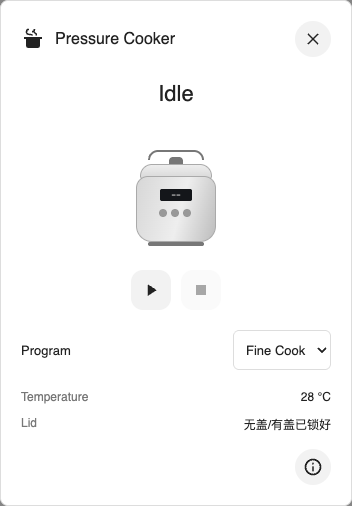
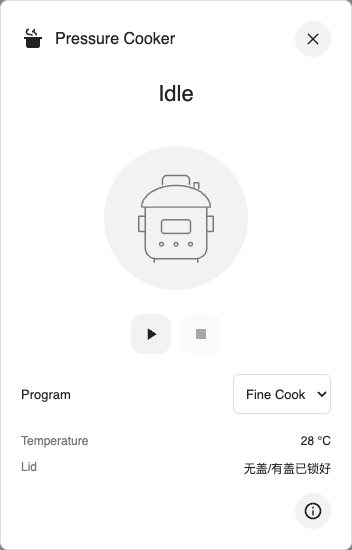
Use native-style appliance outlines and selectable dishwasher designs

diff --git a/src/cards/cooking-art.js b/src/cards/cooking-art.js
@@ -1,39 +1,16 @@
-// SPDX-License-Identifier: MIT
-// Appliance silhouettes adapted from ADNPolymerase/ha-appliance-card v2.30.0.
-// Copyright (c) 2026 ADNPolymerase. See NOTICE.md.
+// Original theme-aware outline drawings shared by appliance tiles and dialogs.
 export const cookingArtCss = `
-.machine{position:relative;width:96px;height:108px;margin:12px auto 20px;--ac-body:#d7d7d7;--ac-body-hi:#eeeeee;--ac-body-lo:#bdbdbd}
-.af-body{position:absolute;border-radius:16px 16px 7px 7px;background:linear-gradient(90deg,var(--ac-body-lo),var(--ac-body-hi) 30%,var(--ac-body) 70%,var(--ac-body-lo));box-shadow:inset 0 0 0 1px #0003;left:21px;right:21px;top:20px;bottom:9px}
-.af-vent{position:absolute;height:4px;border-radius:2px;background:repeating-linear-gradient(90deg,#0007 0 1.2px,transparent 1.2px 3px);left:34px;right:34px;top:24px}
-.af-seam{position:absolute;height:1.5px;background:#0005;left:21px;right:21px;top:52px}
-.af-drawer{position:absolute;border-radius:3px 3px 8px 8px;background:linear-gradient(90deg,var(--ac-body-lo),var(--ac-body) 35%,var(--ac-body-hi) 60%,var(--ac-body-lo));box-shadow:inset 0 0 0 1px #0003;left:21px;right:21px;top:53px;bottom:9px}
-.af-handle{position:absolute;border-radius:3px;background:linear-gradient(180deg,#5f666e,#2b3036);box-shadow:0 1px 1px #0005;left:15px;width:24px;top:13px;height:13px}
-.af-btn{position:absolute;width:5px;height:2px;border-radius:1px;background:#90a4ae;left:9.5px;top:1.5px}
-.af-foot{position:absolute;bottom:5px;width:9px;height:3px;border-radius:0 0 3px 3px;background:#555}.af-foot.f1{left:25px}.af-foot.f2{right:25px}
-.af-led{position:absolute;width:3px;height:3px;border-radius:50%;background:#777;left:46.5px;top:43px}
-.machine.heating .af-led,.machine.heating .af-seam{background:var(--state-active-color,#ff9800)}
-.rk-body{position:absolute;left:8px;right:8px;top:34px;bottom:8px;border-radius:12px 12px 16px 16px;background:linear-gradient(105deg,var(--ac-body),var(--ac-body-hi) 55%,var(--ac-body-lo));border:1px solid #aaa}
-.rk-lid{position:absolute;left:12px;right:12px;top:22px;height:16px;border-radius:12px 12px 4px 4px;background:linear-gradient(180deg,var(--ac-body-hi),var(--ac-body));border:1px solid #aaa}
-.rk-vent{position:absolute;left:50%;top:15px;width:14px;height:9px;margin-left:-7px;border-radius:4px 4px 2px 2px;background:#777}
-.rk-handle{position:absolute;left:20px;right:20px;top:8px;height:10px;border:2.5px solid #777;border-bottom:none;border-radius:10px 10px 0 0}
-.rk-disp{position:absolute;left:50%;top:12px;transform:translateX(-50%);min-width:32px;height:12px;padding:0 3px;border-radius:2px;background:#14161a;color:#aaa;text-align:center;font:600 8px/12px monospace}
-.rk-key{position:absolute;top:32px;width:8px;height:8px;border-radius:50%;background:#999}.rk-key.k1{left:22px}.rk-key.k2{left:34px}.rk-key.k3{left:46px}
-.rk-foot{position:absolute;left:20px;right:20px;bottom:4px;height:4px;border-radius:2px;background:#777}.machine.heating .rk-foot,.machine.heating .rk-disp{color:var(--state-active-color,#ff9800)}
-.dw-body{position:absolute;inset:0;border-radius:10px 10px 6px 6px;background:linear-gradient(145deg,var(--ac-body,#d7d7d7),var(--ac-body-lo,#aeb2b5));border:1px solid var(--divider-color,#c7c7c7);perspective:260px}
-.dw-controls{position:absolute;top:6px;left:8px;right:8px;height:12px;border:1px solid #fff2;border-radius:3px;background:#141617c7}
-.dw-controls::before,.dw-controls::after{content:"";position:absolute;top:3px;width:4px;height:4px;border-radius:50%;background:#697078}.dw-controls::before{right:5px}.dw-controls::after{right:12px}
-.dw-screen{position:absolute;top:2px;left:4px;width:24px;height:6px;border-radius:2px;background:#16292e;box-shadow:inset 0 0 0 1px #81d5cd4d}
-.dw-cavity{position:absolute;top:22px;right:8px;bottom:8px;left:8px;overflow:hidden;border:3px solid #34383b;border-radius:4px;background:linear-gradient(180deg,#33474f,#7d8f95);box-shadow:inset 0 0 10px #0005}
-.dw-rack{position:absolute;right:10%;bottom:13%;left:10%;height:34%;border-top:1px solid #dee8ebc2;border-bottom:1px solid #dee8eb80;background:repeating-linear-gradient(90deg,transparent 0 7px,#dee8eb94 8px 9px);transform:perspective(100px) rotateX(18deg)}
-.dw-door{position:absolute;top:22px;right:8px;bottom:8px;left:8px;z-index:5;border:3px solid #34383b;border-radius:4px;background:linear-gradient(180deg,#0e141880,#0e1418bd);box-shadow:inset 0 0 0 1px #e1ebec4d,0 3px 5px #0004;transform-origin:50% 100%}
-.dw-door::after{content:"";position:absolute;inset:0;border-radius:2px;background:linear-gradient(116deg,#ffffff2b 0 17%,transparent 40%)}
-.dw-door::before{content:"";position:absolute;top:4px;right:18%;left:18%;height:2px;border-radius:8px;background:#e1e7e899}
-.dw-spray{position:absolute;top:21%;left:10%;width:80%;height:5px;border-radius:8px;background:var(--primary-color,#03a9f4);opacity:0;transform-origin:50% 50%}
-.machine.spinning .dw-spray{opacity:1;animation:dw-spray-spin 2.8s linear infinite}.machine.spinning .dw-door{background:linear-gradient(180deg,#121a1e14,#121a1e4d)}
-@keyframes dw-spray-spin{to{transform:rotate(360deg)}}@media(prefers-reduced-motion:reduce){.machine.spinning .dw-spray{animation:none}}
+.machine{display:grid;place-items:center;width:144px;height:144px;margin:16px auto 24px;border-radius:50%;background:var(--secondary-background-color,#f5f5f5);color:var(--secondary-text-color,#888)}
+.machine svg{width:116px;height:116px}.appliance-drawing{display:block;fill:none;stroke:currentColor;stroke-width:1.6;stroke-linecap:round;stroke-linejoin:round}
+.appliance-icon{display:inline-flex;flex-shrink:0;width:28px;height:28px;color:var(--state-inactive-color,#999)}.appliance-icon svg{width:100%;height:100%;stroke-width:4.2}
+header .appliance-icon{width:24px;height:24px;color:var(--primary-text-color,#444)}.entry.active>.appliance-icon{color:var(--state-active-color,#ff9800)}
 `;
-export const cookingArt = kind => kind === "dishwasher"
-  ? '<div class="machine"><div class="dw-body"><div class="dw-controls"><div class="dw-screen"></div></div><div class="dw-cavity"><div class="dw-rack"></div><div class="dw-spray"></div></div><div class="dw-door" aria-hidden="true"></div></div></div>'
-  : kind === "air-fryer"
-  ? '<div class="machine"><div class="af-body"></div><div class="af-vent"></div><div class="af-led"></div><div class="af-seam"></div><div class="af-drawer"><div class="af-handle"><div class="af-btn"></div></div></div><div class="af-foot f1"></div><div class="af-foot f2"></div></div>'
-  : '<div class="machine"><div class="rk-handle"></div><div class="rk-vent"></div><div class="rk-lid"></div><div class="rk-body"><div class="rk-disp">--</div><div class="rk-key k1"></div><div class="rk-key k2"></div><div class="rk-key k3"></div></div><div class="rk-foot"></div></div>';
+const cabinet = '<rect x="30" y="18" width="68" height="94" rx="5"/><path d="M30 38h68M44 47h40M36 104h56"/><rect x="40" y="25" width="18" height="6" rx="1.5"/><circle cx="86" cy="28" r="1.5"/><path d="M42 68v25h44V68M42 85h44M50 68v17m9-17v17m10-17v17m9-17v17"/>';
+const sink = '<path d="M15 54h98M21 54v51h86V54M25 105v6m78-6v6M64 63v34M28 93h29M71 93h29"/><path d="M35 52V32a10 10 0 0 1 20 0v5m-4 0h8M30 44h10"/><rect x="28" y="61" width="29" height="27" rx="5"/><path d="M34 69v11m8-11v11m8-11v11M72 62h27v26H72zM77 68h17m-17 7h17m-17 7h17"/>';
+const fryer = '<path d="M40 24h48a10 10 0 0 1 10 10v65a10 10 0 0 1-10 10H40a10 10 0 0 1-10-10V34a10 10 0 0 1 10-10ZM30 64h68M37 109v4m54-4v4"/><rect x="49" y="36" width="30" height="13" rx="3"/><circle cx="42" cy="42" r="2"/><circle cx="86" cy="42" r="2"/><rect x="55" y="72" width="18" height="23" rx="4"/><path d="M43 29h42"/>';
+const cooker = '<path d="M30 52h68v45a12 12 0 0 1-12 12H42a12 12 0 0 1-12-12ZM26 52a38 24 0 0 1 76 0H26ZM29 62h-6v17h7m68-17h7v17h-7M40 109v4m48-4v4"/><path d="M49 27v-5a5 5 0 0 1 5-5h20a5 5 0 0 1 5 5v5M84 30v-5h5v7"/><rect x="48" y="66" width="32" height="15" rx="3"/><circle cx="48" cy="93" r="2"/><circle cx="64" cy="93" r="2"/><circle cx="80" cy="93" r="2"/>';
+export function applianceSvg(kind, variant = "cabinet") {
+  const paths = kind === "dishwasher" ? (variant === "sink" ? sink : cabinet) : kind === "air-fryer" ? fryer : cooker;
+  return `<svg class="appliance-drawing" viewBox="0 0 128 128" aria-hidden="true">${paths}</svg>`;
+}
+export const cookingArt = (kind, variant) => `<div class="machine" aria-hidden="true">${applianceSvg(kind, variant)}</div>`;

diff --git a/src/cards/cooking-card.js b/src/cards/cooking-card.js
@@ -1,4 +1,4 @@
-import { cookingArt, cookingArtCss } from "./cooking-art.js";
+import { cookingArt, cookingArtCss, applianceSvg } from "./cooking-art.js";
 
 const valid = value => value !== undefined && !["unknown", "unavailable", ""].includes(value);
 const normalize = value => String(value || "").trim().toLowerCase();
@@ -45,13 +45,14 @@ export class CookingCard extends HTMLElement {
   disconnectedCallback() { this.cancel(); this.shadowRoot?.querySelector("dialog")?.close(); }
   render() {
     const icon = this.config.kind === "dishwasher" ? "dishwasher" : this.config.kind === "air-fryer" ? "stove" : "pot-steam";
+    const entryIcon = this.config.kind === "dishwasher" ? `<span class="appliance-icon">${applianceSvg("dishwasher", this.config.icon_variant)}</span>` : `<ha-icon icon="mdi:${icon}"></ha-icon>`;
     this.shadowRoot.innerHTML = `<style>
       :host{display:block;font-family:var(--paper-font-body1_-_font-family,Roboto,sans-serif);color:var(--primary-text-color,#222)}*{box-sizing:border-box}[hidden]{display:none!important}button,input,select{font:inherit;color:inherit}button{cursor:pointer}button:disabled,input:disabled,select:disabled{opacity:.4;cursor:default}
       .entry{display:flex;align-items:center;gap:12px;width:100%;height:66px;padding:10px 12px;text-align:left;background:var(--ha-card-background,#fff);border:1px solid var(--divider-color,#ddd);border-radius:8px}.entry>ha-icon{--mdc-icon-size:28px;color:var(--state-inactive-color,#999)}.entry.active>ha-icon{color:var(--state-active-color,#ff9800)}.info{min-width:0;flex:1}.name{font-size:14px;font-weight:500;overflow-wrap:anywhere}.summary{font-size:12px;margin-top:3px;color:var(--secondary-text-color,#777);overflow-wrap:anywhere}
       dialog{width:min(420px,calc(100vw - 32px));max-height:85dvh;overflow:auto;padding:20px;border:1px solid var(--divider-color,#ddd);border-radius:8px;background:var(--ha-card-background,#fff);color:inherit}dialog::backdrop{background:#0007}header{display:flex;align-items:center;gap:10px}h2{flex:1;font-size:16px;font-weight:500;margin:0;overflow-wrap:anywhere}header ha-icon{--mdc-icon-size:24px}.control{display:grid;place-items:center;flex-shrink:0;width:40px;height:40px;border:0;border-radius:12px;background:var(--secondary-background-color,#f2f2f2)}.control ha-icon{--mdc-icon-size:20px}.close,.details{border-radius:50%;width:36px;height:36px}.status{text-align:center;font-size:22px;margin-top:24px}.remaining{text-align:center;font-size:12px;color:var(--secondary-text-color,#777);min-height:18px;margin-top:6px}.controls{display:flex;justify-content:center;gap:10px;margin-bottom:20px}.fields{display:grid;gap:12px}.field{display:flex;align-items:center;gap:8px;font-size:13px}.field>span{flex:1;min-width:0}input,select{height:40px;border:1px solid var(--divider-color,#ddd);border-radius:6px;background:var(--card-background-color,#fff);padding:0 8px;min-width:0;max-width:65%}input{width:84px}.facts{display:grid;gap:12px;margin-top:20px;font-size:12px}.fact{display:grid;grid-template-columns:minmax(0,1fr) minmax(0,1.5fr);gap:12px}.fact span:first-child{color:var(--secondary-text-color,#777)}.fact span:last-child{text-align:right;overflow-wrap:anywhere}.message{font-size:13px;color:var(--error-color,#db4437);overflow-wrap:anywhere;margin-top:16px}.message:empty{display:none}footer{display:flex;justify-content:flex-end;margin-top:16px}button:focus-visible,input:focus-visible,select:focus-visible{outline:2px solid var(--primary-color,#03a9f4);outline-offset:2px}
       ${cookingArtCss}
-    </style><button class="entry" aria-haspopup="dialog"><ha-icon icon="mdi:${icon}"></ha-icon><span class="info"><span class="name"></span><div class="summary"></div></span></button>
-    <dialog><header><ha-icon icon="mdi:${icon}"></ha-icon><h2></h2>${iconButton("close", "close", "Close")}</header><div class="status"></div><div class="remaining"></div>${cookingArt(this.config.kind)}<div class="controls">${iconButton("start", "play", "Start")}${iconButton("pause", "pause", "Pause")}${iconButton("resume", "play-pause", "Resume")}${iconButton("stop", "stop", "Stop")}</div><div class="fields"></div><div class="facts"></div><div class="message" role="alert"></div><footer>${iconButton("details", "information-outline", "Device Details")}</footer></dialog>`;
+    </style><button class="entry" aria-haspopup="dialog">${entryIcon}<span class="info"><span class="name"></span><div class="summary"></div></span></button>
+    <dialog><header>${entryIcon}<h2></h2>${iconButton("close", "close", "Close")}</header><div class="status"></div><div class="remaining"></div>${cookingArt(this.config.kind, this.config.icon_variant)}<div class="controls">${iconButton("start", "play", "Start")}${iconButton("pause", "pause", "Pause")}${iconButton("resume", "play-pause", "Resume")}${iconButton("stop", "stop", "Stop")}</div><div class="fields"></div><div class="facts"></div><div class="message" role="alert"></div><footer>${iconButton("details", "information-outline", "Device Details")}</footer></dialog>`;
     const root = this.shadowRoot, dialog = root.querySelector("dialog");
     root.querySelector(".name").textContent = root.querySelector("h2").textContent = this.config.name;
     dialog.setAttribute("aria-label", this.config.name);

diff --git a/src/cards/cooking-editor.js b/src/cards/cooking-editor.js
@@ -3,11 +3,18 @@ class CookingEditor extends HTMLElement {
   set hass(hass) { this._hass = hass; this.shadowRoot?.querySelectorAll("ha-selector").forEach(node => { node.hass = hass; }); }
   change(key, value) { this.config = { ...this.config, [key]: value || undefined }; this.dispatchEvent(new CustomEvent("config-changed", { detail: { config: this.config }, bubbles: true, composed: true })); }
   render() {
-    this.shadowRoot.innerHTML = '<style>:host{display:block}label,ha-selector{display:block;margin-bottom:16px}input,textarea{display:block;width:100%;box-sizing:border-box;padding:10px;font:inherit;color:var(--primary-text-color);background:var(--card-background-color);border:1px solid var(--divider-color);border-radius:4px}</style>';
+    this.shadowRoot.innerHTML = '<style>:host{display:block}label,ha-selector{display:block;margin-bottom:16px}input,textarea,select{display:block;width:100%;box-sizing:border-box;padding:10px;font:inherit;color:var(--primary-text-color);background:var(--card-background-color);border:1px solid var(--divider-color);border-radius:4px}</style>';
     const label = document.createElement("label"); label.textContent = "Name";
     const input = document.createElement("input"); input.value = this.config.name || ""; input.onchange = () => this.change("name", input.value); label.append(input); this.shadowRoot.append(label);
     const fryer = this.config.type === "custom:air-fryer-card";
     const dishwasher = this.config.type === "custom:dishwasher-card";
+    if (dishwasher) {
+      const label = document.createElement("label"); label.textContent = "Dishwasher Design";
+      const select = document.createElement("select"); select.setAttribute("aria-label", "Dishwasher Design");
+      for (const [value, title] of [["sink", "Sink"], ["cabinet", "Cabinet"]]) { const option = document.createElement("option"); option.value = value; option.textContent = title; select.append(option); }
+      select.value = this.config.icon_variant || "cabinet"; select.onchange = () => this.change("icon_variant", select.value);
+      label.append(select); this.shadowRoot.append(label);
+    }
     const fields = [["state_entity", "Status", "sensor"], ["start_entity", "Start", fryer ? "button" : "notify"], ["stop_entity", "Stop", "button"], ["remaining_entity", "Remaining Time", "sensor"], ["fault_entity", "Fault", "sensor"], ["finished_entity", "Last Finished", "event"]];
     if (dishwasher) { fields[1][2] = "button"; fields.push(["progress_entity", "Wash Stage", "sensor"], ["mode_entity", "Current Program", "sensor"], ["mode_select_entity", "Program And Start (Midea E1)", "select"]); }
     else if (fryer) fields.push(["pause_entity", "Pause", "button"], ["resume_entity", "Resume", "button"], ["target_temperature_entity", "Target Temperature", "number"], ["target_time_entity", "Duration", "number"], ["recipe_entity", "Recipe", "text"]);

diff --git a/src/cards/dishwasher-card.js b/src/cards/dishwasher-card.js
@@ -4,10 +4,11 @@ const label = value => String(value || "Unavailable").replaceAll("_", " ").repla
 
 class DishwasherCard extends CookingCard {
   setConfig(config) {
+    if (config.icon_variant && !["sink", "cabinet"].includes(config.icon_variant)) throw new Error("icon_variant must be sink or cabinet");
     for (const key of ["progress_entity", "mode_entity"]) if (config[key] && !/^sensor\./.test(config[key])) throw new Error(`${key} must be a sensor`);
     if (config.mode_select_entity && !/^select\./.test(config.mode_select_entity)) throw new Error("mode_select_entity must be a select");
     this.selectedProgram = null;
-    super.setConfig({ name: "Dishwasher", ...config });
+    super.setConfig({ name: "Dishwasher", icon_variant: "cabinet", ...config });
   }
   get active() { return ["running", "delay"].includes(this.status); }
   get fault() { return this.status === "error" ? "Device Error" : super.fault; }

diff --git a/README.md b/README.md
@@ -12,14 +12,16 @@ Screenshots show the actual cards with synthetic demo entities and states.
 ### Dishwasher
 
 `custom:dishwasher-card` uses the same compact tile and dialog as the other
-appliance cards, with a dishwasher silhouette adapted from HA Appliance Card.
+appliance cards, with a theme-aware outline drawing instead of a realistic image.
 Midea AC LAN provides backend entities, not a bundled frontend card.
 
 <img src="docs/images/dishwasher-controls.png" alt="Dishwasher panel with a locally selected program and confirmed Start" width="350">
+<img src="docs/images/dishwasher-sink-controls.png" alt="Sink dishwasher outline variant" width="350">
 
 ```yaml
 type: custom:dishwasher-card
 name: Dishwasher
+icon_variant: cabinet # cabinet or sink
 state_entity: sensor.dishwasher_status
 progress_entity: sensor.dishwasher_progress
 mode_entity: sensor.dishwasher_mode
@@ -27,6 +29,8 @@ mode_select_entity: select.dishwasher_mode_select
 ```
 
 For Midea E1, selecting a program through the integration starts washing.
+The visual editor offers Cabinet and Sink designs; the tile icon, dialog header
+and central outline switch together. This setting never changes device control.
 The card deliberately keeps dropdown edits local: only explicit Start, followed
 by confirmation, calls `select.select_option`. It waits for Running or Delay
 readback. Power Off, unavailable program controls, unknown/error states and
@@ -43,9 +47,9 @@ Browser checks use synthetic entities and never start a real wash.
 ### Air Fryer And Pressure Cooker
 
 `custom:air-fryer-card` and `custom:pressure-cooker-card` open a compact control
-panel from a single status tile. Appliance silhouettes are adapted from
-[HA Appliance Card v2.30.0](https://github.com/ADNPolymerase/ha-appliance-card),
-under MIT; see NOTICE.md. Existing Xiaomi Home entities remain the backend.
+panel from a single status tile. Dialogs use original, unfilled SVG line art
+on a quiet circular background, following the native vacuum control panel.
+Existing Xiaomi Home entities remain the backend.
 
 <img src="docs/images/air-fryer-controls.png" alt="Air fryer controls with temperature and duration" width="350">
 <img src="docs/images/pressure-cooker-controls.png" alt="Pressure cooker controls with program and lid status" width="350">

diff --git a/NOTICE.md b/NOTICE.md
@@ -1,12 +1,9 @@
 # Third-party artwork
 
-`src/cards/cooking-art.js`:
-- Source: https://github.com/ADNPolymerase/ha-appliance-card (v2.30.0).
-- MIT License, Copyright (c) 2026 ADNPolymerase.
-- Air fryer, rice cooker and dishwasher HTML/CSS silhouettes adapted for this library's
-  theme and compact dialog. The rice cooker silhouette represents a generic
-  cooker, not a precise model. Device controls are implemented separately.
-- The MIT permission and warranty terms reproduced below apply to this artwork.
+`src/cards/cooking-art.js` contains original SVG outline drawings.
+Versions 0.11 and 0.12 used silhouettes adapted from
+ADNPolymerase/ha-appliance-card v2.30.0 (MIT, Copyright (c) 2026 ADNPolymerase).
+Those silhouettes were replaced with original line art in version 0.13.
 
 `src/assets/powerstrip.svg`:
 - Title: Powerstrip
